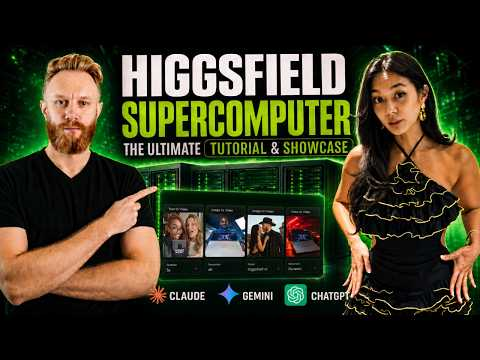
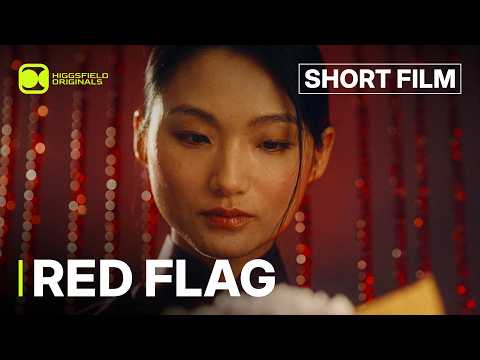
Video 2026: aggiunto lancio GPT-6 Astra (razzo a comandi vocali) prima di Astra 6.2; Higgsfield -> corto ufficiale 'Red Flag' 90s (Higgsfield Originals); Suno v6 -> short ufficiale canale Suno; indice e HUD riallineati (24 slide)
Generated by Mistral Vibe.

diff --git a/index.html b/index.html
@@ -74,10 +74,10 @@
     <p class="sub" style="margin-bottom:18px;">Clicca un riquadro per saltare alla sezione 👉</p>
     <div class="agenda">
       <div class="ag" data-goto="4"><div class="n">01</div><div class="t">Cosa fa oggi</div><div class="d">Video, voce, musica generati dall’AI — i prodotti di frontiera di novembre 2026</div><div class="go">vai →</div></div>
-      <div class="ag" data-goto="13"><div class="n">02</div><div class="t">Chi c’è dietro</div><div class="d">Quiz: riconosci le persone? Poi aziende, paesi e a cosa puntano</div><div class="go">vai →</div></div>
-      <div class="ag" data-goto="14"><div class="n">03</div><div class="t">Dove gira</div><div class="d">La mappa mondiale dei datacenter e della potenza di calcolo</div><div class="go">vai →</div></div>
-      <div class="ag" data-goto="16"><div class="n">04</div><div class="t">Come è fatta</div><div class="d">Chip, filiera globale, cavi sottomarini, energia</div><div class="go">vai →</div></div>
-      <div class="ag" data-goto="21"><div class="n">05</div><div class="t">E noi?</div><div class="d">Il corso ITS-ICT Academy “AI &amp; Digital Innovation” a Roma</div><div class="go">vai →</div></div>
+      <div class="ag" data-goto="14"><div class="n">02</div><div class="t">Chi c’è dietro</div><div class="d">Quiz: riconosci le persone? Poi aziende, paesi e a cosa puntano</div><div class="go">vai →</div></div>
+      <div class="ag" data-goto="15"><div class="n">03</div><div class="t">Dove gira</div><div class="d">La mappa mondiale dei datacenter e della potenza di calcolo</div><div class="go">vai →</div></div>
+      <div class="ag" data-goto="17"><div class="n">04</div><div class="t">Come è fatta</div><div class="d">Chip, filiera globale, cavi sottomarini, energia</div><div class="go">vai →</div></div>
+      <div class="ag" data-goto="22"><div class="n">05</div><div class="t">E noi?</div><div class="d">Il corso ITS-ICT Academy “AI &amp; Digital Innovation” a Roma</div><div class="go">vai →</div></div>
     </div>
   </section>
 
@@ -121,9 +121,17 @@
     </div>
   </section>
 
-  <!-- 4 · VIDEO GPT-6.2 ASTRA (OpenAI) -->
-  <section class="slide vslide" data-note="GPT-6.2 Astra, il modello di punta di OpenAI (17 nov 2026): ragionamento, agenti, lavoro reale. Segmento di ~15s in loop (regolabile con data-start/data-end).">
-    <div class="stage"><div class="yt" data-id="C1zYX5jwqq4" data-start="24" data-end="39"><div class="thumb"><img src="assets/img/thumbs/astra.jpg" alt="GPT-6.2 Astra"><div class="play"><span>▶</span></div></div></div></div>
+  <!-- 4 · VIDEO LANCIO GPT-6 ASTRA (razzo a comandi vocali) -->
+  <section class="slide vslide" data-note="Il video di lancio di GPT-6 Astra (set 2026, canale OpenAI): con soli comandi vocali si trasforma un cerchio giallo in un razzo e poi in un gioco 3D — e si può stampare in 3D. È il 'primo video di Astra'.">
+    <div class="stage"><div class="yt" data-id="1QNsdr-Qx_I"><div class="thumb"><img src="assets/img/thumbs/astra_launch.jpg" alt="Lancio GPT-6 Astra"><div class="play"><span>▶</span></div></div></div></div>
+    <div class="veil"></div>
+    <div class="vhead"><div class="kicker">Il lancio · OpenAI · set 2026</div><div class="vtitle">GPT-6 Astra</div><div class="vkw">comandi vocali → razzo 3D</div></div>
+    <div class="vfoot"><span class="tag c">video di lancio</span><span class="src">YouTube · OpenAI</span></div>
+  </section>
+
+  <!-- 5 · VIDEO GPT-6.2 ASTRA (OpenAI) -->
+  <section class="slide vslide" data-note="GPT-6.2 Astra, il modello di punta di OpenAI (17 nov 2026): ragionamento, agenti, lavoro reale.">
+    <div class="stage"><div class="yt" data-id="C1zYX5jwqq4"><div class="thumb"><img src="assets/img/thumbs/astra.jpg" alt="GPT-6.2 Astra"><div class="play"><span>▶</span></div></div></div></div>
     <div class="veil"></div>
     <div class="vhead"><div class="kicker">Modello di punta · OpenAI · nov 2026</div><div class="vtitle">GPT-6.2 Astra</div><div class="vkw">ragionamento · agenti · lavoro reale</div></div>
     <div class="vfoot"><span class="tag c">LLM frontier</span><span class="src">YouTube · OpenAI</span></div>
@@ -162,11 +170,11 @@
   </section>
 
   <!-- 9 · VIDEO HIGGSFIELD -->
-  <section class="slide vslide" data-note="Higgsfield: lo strumento di chi crea video e ads in pochi minuti da un prompt. Nel 2026 ha anche un festival del cinema AI (Higgsfield Film Festival).">
-    <div class="stage"><div class="yt" data-id="qsgDMygRTto" data-start="35" data-end="50"><div class="thumb"><img src="assets/img/thumbs/higgsfield.jpg" alt="Higgsfield"><div class="play"><span>▶</span></div></div></div></div>
+  <section class="slide vslide" data-note="Higgsfield Originals 2026: 'Red Flag', corto AI da 90 secondi in stile Hong Kong anni '90, canale ufficiale Higgsfield. niente tutorial: 90 secondi di film vero fatto con l'AI.">
+    <div class="stage"><div class="yt" data-id="2z7Y6G84Iy4"><div class="thumb"><img src="assets/img/thumbs/higgsfield.jpg" alt="Red Flag - Higgsfield Originals"><div class="play"><span>▶</span></div></div></div></div>
     <div class="veil"></div>
-    <div class="vhead"><div class="kicker">Video · Higgsfield · 2026</div><div class="vtitle">Higgsfield</div><div class="vkw">prompt → video professionale</div></div>
-    <div class="vfoot"><span class="tag a">creator & ads</span><span class="src">YouTube · Higgsfield</span></div>
+    <div class="vhead"><div class="kicker">Video · Higgsfield Originals · 2026</div><div class="vtitle">Red Flag · 90s</div><div class="vkw">corto AI da 90 secondi</div></div>
+    <div class="vfoot"><span class="tag a">AI film festival</span><span class="src">YouTube · Higgsfield AI</span></div>
   </section>
 
   <!-- 10 · VIDEO ELEVEN V4 -->
@@ -178,11 +186,11 @@
   </section>
 
   <!-- 11 · VIDEO SUNO V6 -->
-  <section class="slide vslide" data-note="Suno v6 (2026): da un testo a una canzone completa con voce e strumenti. Questioni aperte su copyright e training data.">
-    <div class="stage"><div class="yt" data-id="_lHvWn2SNC4" data-start="15" data-end="30"><div class="thumb"><img src="assets/img/thumbs/sunov6.jpg" alt="Suno v6"><div class="play"><span>▶</span></div></div></div></div>
+  <section class="slide vslide" data-note="Suno v6 (2026), short ufficiale del canale Suno: da immagini, video e voice memo a una canzone completa. Versione sintetica, niente tutorial.">
+    <div class="stage"><div class="yt" data-id="FxfcjD9YXJM"><div class="thumb"><img src="assets/img/thumbs/sunov6.jpg" alt="Suno v6"><div class="play"><span>▶</span></div></div></div></div>
     <div class="veil"></div>
-    <div class="vhead"><div class="kicker">Musica · Suno · 2026</div><div class="vtitle">Suno v6</div><div class="vkw">testo → canzone completa</div></div>
-    <div class="vfoot"><span class="tag a">audio AI</span><span class="src">YouTube · Suno</span></div>
+    <div class="vhead"><div class="kicker">Musica · Suno · 2026</div><div class="vtitle">Suno v6</div><div class="vkw">immagini, video e voice memo → canzone</div></div>
+    <div class="vfoot"><span class="tag a">audio AI · short ufficiale</span><span class="src">YouTube · Suno Music</span></div>
   </section>
 
   <!-- 12 · CHI FA COSA (matrix 2026) -->
@@ -461,7 +469,7 @@
 <div class="clickzone prev" title="indietro"></div>
 <div class="clickzone next" title="avanti"></div>
 <div id="hud">
-  <span class="num">01 / 23</span>
+  <span class="num">01 / 24</span>
   <span class="bar"><i></i></span>
   <span class="hint">← → naviga · F fullscreen · N note</span>
 </div>

diff --git a/README.md b/README.md
@@ -10,20 +10,20 @@ Deck per ragazzi delle superiori, pensato per la giornata di orientamento dell'*
 - Slide 13 (Chi c'è dietro): **quiz** — mostra solo le facce, poi **click** sulla slide per rivelare nomi e aziende.
 - I video partono automaticamente da 0:00 con audio, scorrono fino alla fine e poi ripartono dall’inizio (loop nativo YouTube: niente parametri start/end, che vengono ignorati al loop).
 
-## Struttura (23 slide)
+## Struttura (24 slide)
 
 1. Titolo · 2. Indice in 5 tappe cliccabili · 3. Cos'è l'AI: DATI → SCHEMI → PREDIZIONI con esempio reale del "prossimo token" (Roma 91%…)
-4–11. **Video di frontiera nov-2026** (~15 s in loop): GPT-6.2 Astra (OpenAI), Claude Fable 5.2 (Anthropic), Veo 3.1 (Google Flow), Runway Gen-4.5, Kling 4.0, Higgsfield, ElevenLabs v4, Suno v6. *(Sora 2 e Oasis tagliati: Sora è stato dismesso nel 2026)*
-12. **Chi fa cosa** — matrice piattaforme top nov-2026 (crea / costruisce)
+4–12. **Video nov-2026** (autoplay con audio, loop dalla fine): Lancio GPT-6 Astra — razzo 3D a comandi vocali (OpenAI), GPT-6.2 Astra (OpenAI), Claude Fable 5.2 (Anthropic), Veo 3.1 (Google Flow), Runway Gen-4.5, Kling 4.0, Higgsfield Originals "Red Flag" (corto 90s), ElevenLabs v4, Suno v6 (short ufficiale). *(Sora 2 e Oasis tagliati: Sora dismesso nel 2026)*
+13. **Chi fa cosa** — matrice piattaforme top nov-2026 (crea / costruisce)
 13. **Chi c'è dietro** — quiz con click per rivelare nomi/aziende
-14. **Mappa datacenter + numeri 2026**: ~12.000 nel mondo, USA 5.427 (45%), Europa 3.346, Cina ~600, Italia >100, USA ≈ 75% del compute AI di frontiera
-15. Dentro un datacenter + dettaglio GPU NVIDIA, wafer, chip
-16. **Filiera chip**: NVIDIA 🇺🇸 → TSMC 🇹🇼 → ASML 🇳🇱 → HBM 🇰🇷 → assemblaggio
-17. **Cavi sottomarini 2026**: 607 attivi + 102 in programma; tagli Mar Rosso 2024, Baltico (10 dal 2022), Taiwan (5 nel 2024-25); Cable Hub UE da giu 2026
-18. **Energia**: mappa consumi per area (USA 45% / Cina 25% / Europa 15% — IEA) + mix USA (gas >40%, rinnovabili 24%…); 485→950 TWh entro 2030; USA 4-5%→9-17% (EPRI 2026)
-19. **Fragilità** con immagini: cavi, rete, alluvioni/incendi, cyber, deepfake, bias, pochi fornitori, AI Act UE
-20. **Cosa puoi fare tu oggi** — piattaforme top nov-2026
-21–23. Corso ITS (1800 h, gratis, EQF 5) · Iscriviti (QR, contatti, sede) · Domande?
+15. **Mappa datacenter + numeri 2026**: ~12.000 nel mondo, USA 5.427 (45%), Europa 3.346, Cina ~600, Italia >100, USA ≈ 75% del compute AI di frontiera
+16. Dentro un datacenter + dettaglio GPU NVIDIA, wafer, chip
+17. **Filiera chip**: NVIDIA 🇺🇸 → TSMC 🇹🇼 → ASML 🇳🇱 → HBM 🇰🇷 → assemblaggio
+18. **Cavi sottomarini 2026**: 607 attivi + 102 in programma; tagli Mar Rosso 2024, Baltico (10 dal 2022), Taiwan (5 nel 2024-25); Cable Hub UE da giu 2026
+19. **Energia**: mappa consumi per area (USA 45% / Cina 25% / Europa 15% — IEA) + mix USA (gas >40%, rinnovabili 24%…); 485→950 TWh entro 2030; USA 4-5%→9-17% (EPRI 2026)
+20. **Fragilità** con immagini: cavi, rete, alluvioni/incendi, cyber, deepfake, bias, pochi fornitori, AI Act UE
+21. **Cosa puoi fare tu oggi** — piattaforme top nov-2026
+22–24. Corso ITS (1800 h, gratis, EQF 5) · Iscriviti (QR, contatti, sede) · Domande?
 
 ## Cartelle
 
